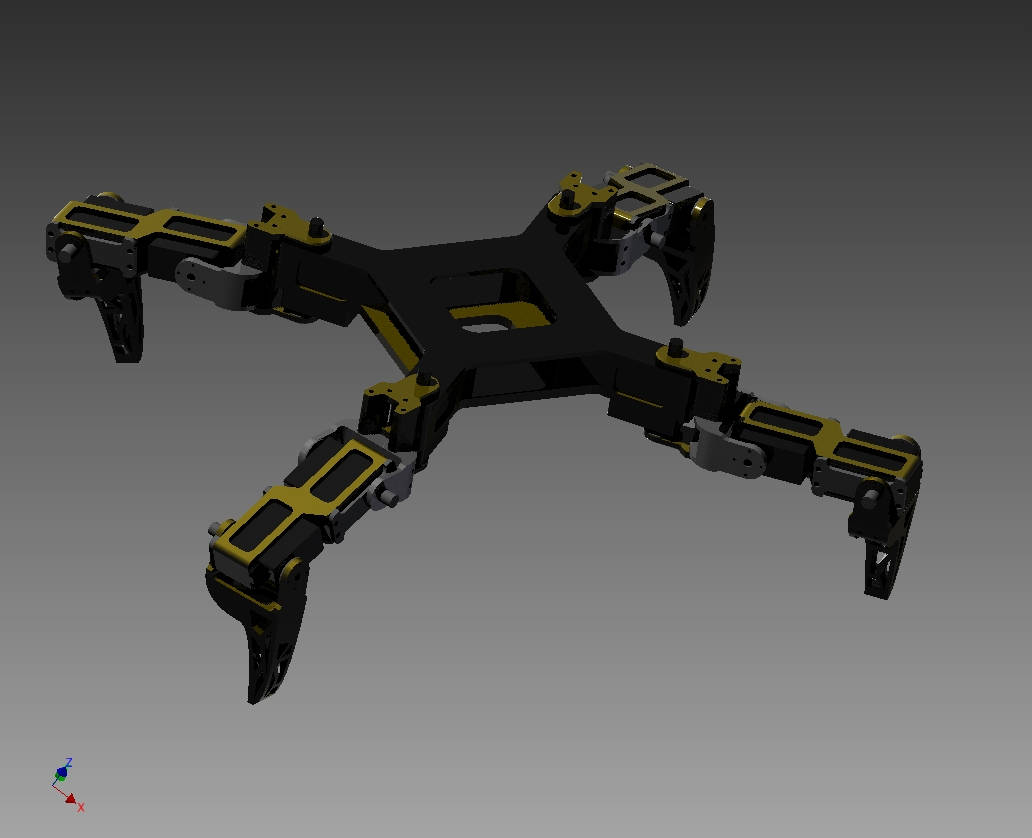
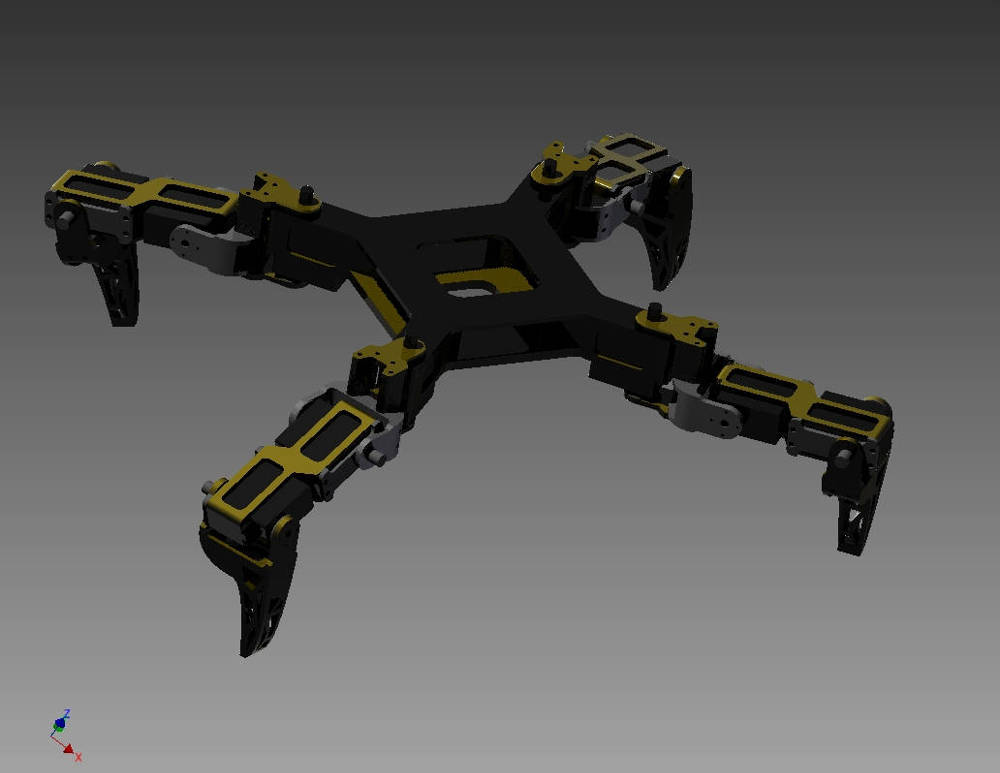
better sized images for MW

diff --git a/public/views/projects/mw.html b/public/views/projects/mw.html
@@ -66,7 +66,7 @@
                     <img class="mission-statement-image" src="../img/mw/mw-cad.jpg" alt="HURC team">
                 </div>
                 <div class="col-xs-6 col-sm-4 picture-div picture-row">
-                    <img class="mission-statement-image" src="../img/mw/mw-robot1.png" alt="HURC team">
+                    <img class="mission-statement-image" src="../img/mw/mw-robot1.jpg" alt="HURC team">
                 </div>
 
                 <div class="col-xs-6 col-sm-6 picture-div">
